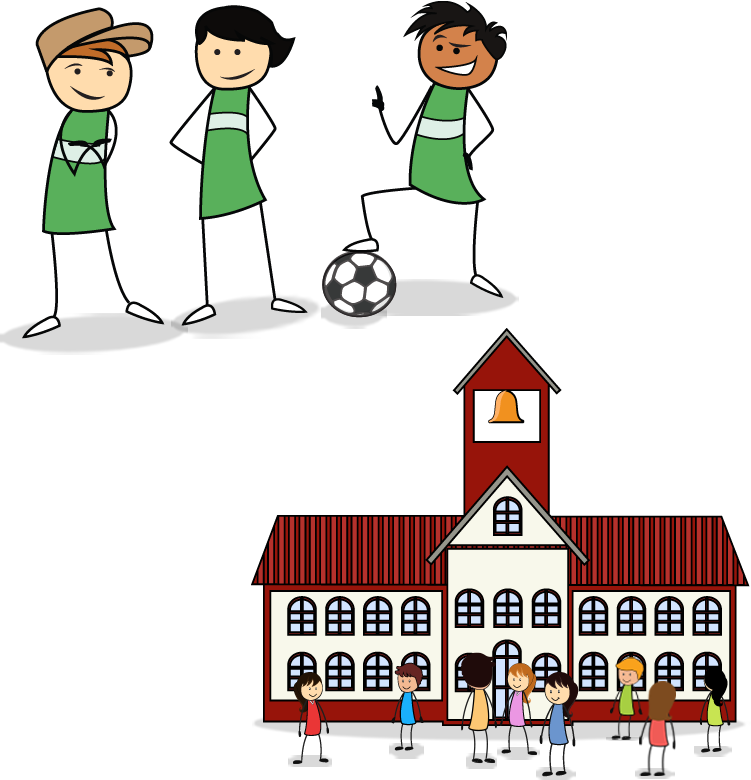
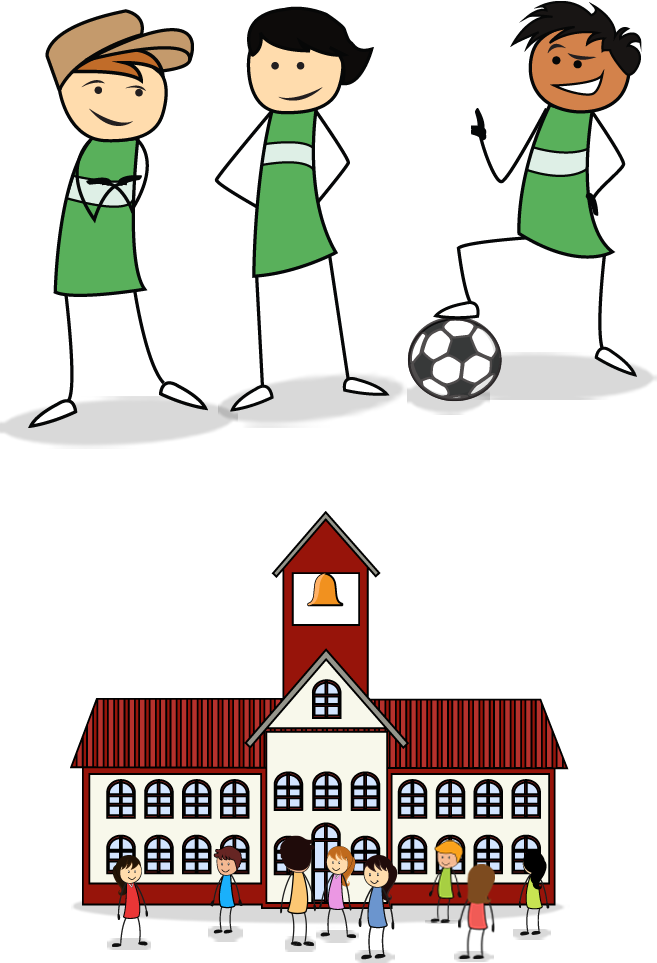
tutorial images updated

diff --git a/Mobile/www/css/style.css b/Mobile/www/css/style.css
@@ -565,7 +565,7 @@ input[type="checkbox"]:checked + label span {
 	box-shadow:0 3px 56px #9e8342 inset;
 }
 .tutorial-1 {
-	background:#fae49c url(images/v-51-320.png) no-repeat center 30px;
+	background:#fae49c url(images/v-51-320.png) no-repeat center center;
 }
 .tutorial-2 {
 	background:#fae49c url(images/v-52-320.png) no-repeat center 22px;
@@ -609,6 +609,9 @@ input[type="checkbox"]:checked + label span {
 	float:left;
 	width:82%;
 	text-align:left;
+}
+.resolution-5 p {
+	width:auto;
 }
 .msg-content span {
 	background:url(images/new-user.png) no-repeat right 10px;
@@ -3242,6 +3245,9 @@ a, a.ui-link, .ui-link:visited, .ui-link:hover, .ui-link:active{
 	font-family:'OpenSansRegular';
 }
 /* IGI Confirmation End*/
+.nofollowedyet {
+  margin-top:-15px;
+}
 /*
 	*@media query css
 */
@@ -3350,7 +3356,7 @@ a, a.ui-link, .ui-link:visited, .ui-link:hover, .ui-link:active{
 		width:91%;
 	}
 	.GetStart {
-		top:50.5%;
+		top:54.5%;
 	}
 	.msg-content p, .msg-content h1 {
 		width:90%;
@@ -3446,28 +3452,72 @@ a, a.ui-link, .ui-link:visited, .ui-link:hover, .ui-link:active{
 		margin:0 40.4%;
 	}
 	.tutorial-1 {
-		background:#fae49c url(images/v-51-all.png) no-repeat center 40px;
+		background:#fae49c url(images/v-51-all.png) no-repeat center center;
 	}
 	.tutorial-2 {
-		background:#fae49c url(images/v-52-all.png) no-repeat center 45px;
+		background:#fae49c url(images/v-52-all.png) no-repeat center center;
 	}
 	.tutorial-3 {
-		background:#fae49c url(images/v-53-all.png) no-repeat center 35px;
+		background:#fae49c url(images/v-53-all.png) no-repeat center center;
 	}
 	.tutorial-4 {
-		background:#fae49c url(images/v-54-all.png) no-repeat center 88px;
+		background:#fae49c url(images/v-54-all.png) no-repeat center center;
 	}
 	.tutorial-5 {
-		background:#fae49c url(images/v-55-all.png) no-repeat center 35px;
+		background:#fae49c url(images/v-55-all.png) no-repeat center center;
 	}
 	.i-icon {
 		width:80%;
 	}
+	.resolution {
+		top:48%;
+	}
 	.resolution-2 {
-		top:44%;
+		top:46%;
 	}
 	.resolution-3 {
-		top:42%;
+		top:50%;
+	}
+	.resolution-4 {
+		top:45%;
+	}
+	.resolution-5 {
+		top:47%;
+	}
+}
+@media screen and (min-height: 600px) and (max-height:768px) {
+	.tutorial-1 {
+		background:#fae49c url(images/v-51-604.png) no-repeat center center;
+	}
+	.resolution {
+		top:43%;
+	}
+	.tutorial-2 {
+		background:#fae49c url(images/v-52-600.png) no-repeat center center;
+	}
+	.resolution-2 {
+		top:46%;
+	}
+	.tutorial-3 {
+		background:#fae49c url(images/v-53-600.png) no-repeat center center;
+	}
+	.resolution-3 {
+		top:46%;
+	}
+	.tutorial-4 {
+		background:#fae49c url(images/v-54-600.png) no-repeat center center;
+	}
+	.resolution-4 {
+		top:39%;
+	}
+	.tutorial-5 {
+		background:#fae49c url(images/v-55-600.png) no-repeat center center;
+	}
+	.resolution-5 {
+		top:34%;
+	}
+	.GetStart {
+		top:46%;
 	}
 }
 @media only screen and (min-width:800px) {
@@ -3475,7 +3525,7 @@ a, a.ui-link, .ui-link:visited, .ui-link:hover, .ui-link:active{
 		width:90%;
 	}
 	.GetStart {
-		top:49%;
+		top:53%;
 	}
 	.slidemenu {
 		min-height:1280px;
@@ -3506,10 +3556,7 @@ a, a.ui-link, .ui-link:visited, .ui-link:hover, .ui-link:active{
 		margin-right:49px;
 	}
 	.resolution {
-		top:35%;
-	}
-	.resolution-2 {
-		top:35%;
+		top:49%;
 	}
 }
 @media only screen and (min-width:980px) {
@@ -3519,9 +3566,6 @@ a, a.ui-link, .ui-link:visited, .ui-link:hover, .ui-link:active{
 	.msg-content p, .msg-content h1 {
 		width:92%;
 	}
-	/*.GetStart {
-		top:67%;
-	}*/
 	.channelicons ul {
 		width:94.5%;
 	}
@@ -3564,6 +3608,7 @@ a, a.ui-link, .ui-link:visited, .ui-link:hover, .ui-link:active{
 		margin:0 42.4%;
 	}
 }
+
 @media only screen and (min-width:1280px) {
 	.searchtype .ui-input-search input.ui-input-text {
 		width:96.5%;
@@ -3647,6 +3692,9 @@ a, a.ui-link, .ui-link:visited, .ui-link:hover, .ui-link:active{
 	}
 	.resolution-3 {
 		top:55%;
+	}
+	.resolution-5 {
+		top:43%;
 	}
 }
 @media only screen and (min-width:1290px) {

diff --git a/Mobile/www/views/TutorialView.html b/Mobile/www/views/TutorialView.html
@@ -44,7 +44,7 @@
     <div class="tutorialslides" id="slide4">
       <div class="new-user tutorial-4">
       </div>
-      <div class="msg-content">
+      <div class="msg-content resolution-4">
         <p>Even if only for emergencies,</p>
         <p>Every group should have its own Evernym Channel</p>
         <span></span>
@@ -53,7 +53,7 @@
     <div class="tutorialslides" id="slide5">
       <div class="new-user tutorial-5">
       </div>
-      <div class="msg-content">
+      <div class="msg-content resolution-5">
         <p>Now notifying your group is simple, and fast</p>
         <p>And it's free!</p>
       </div>
